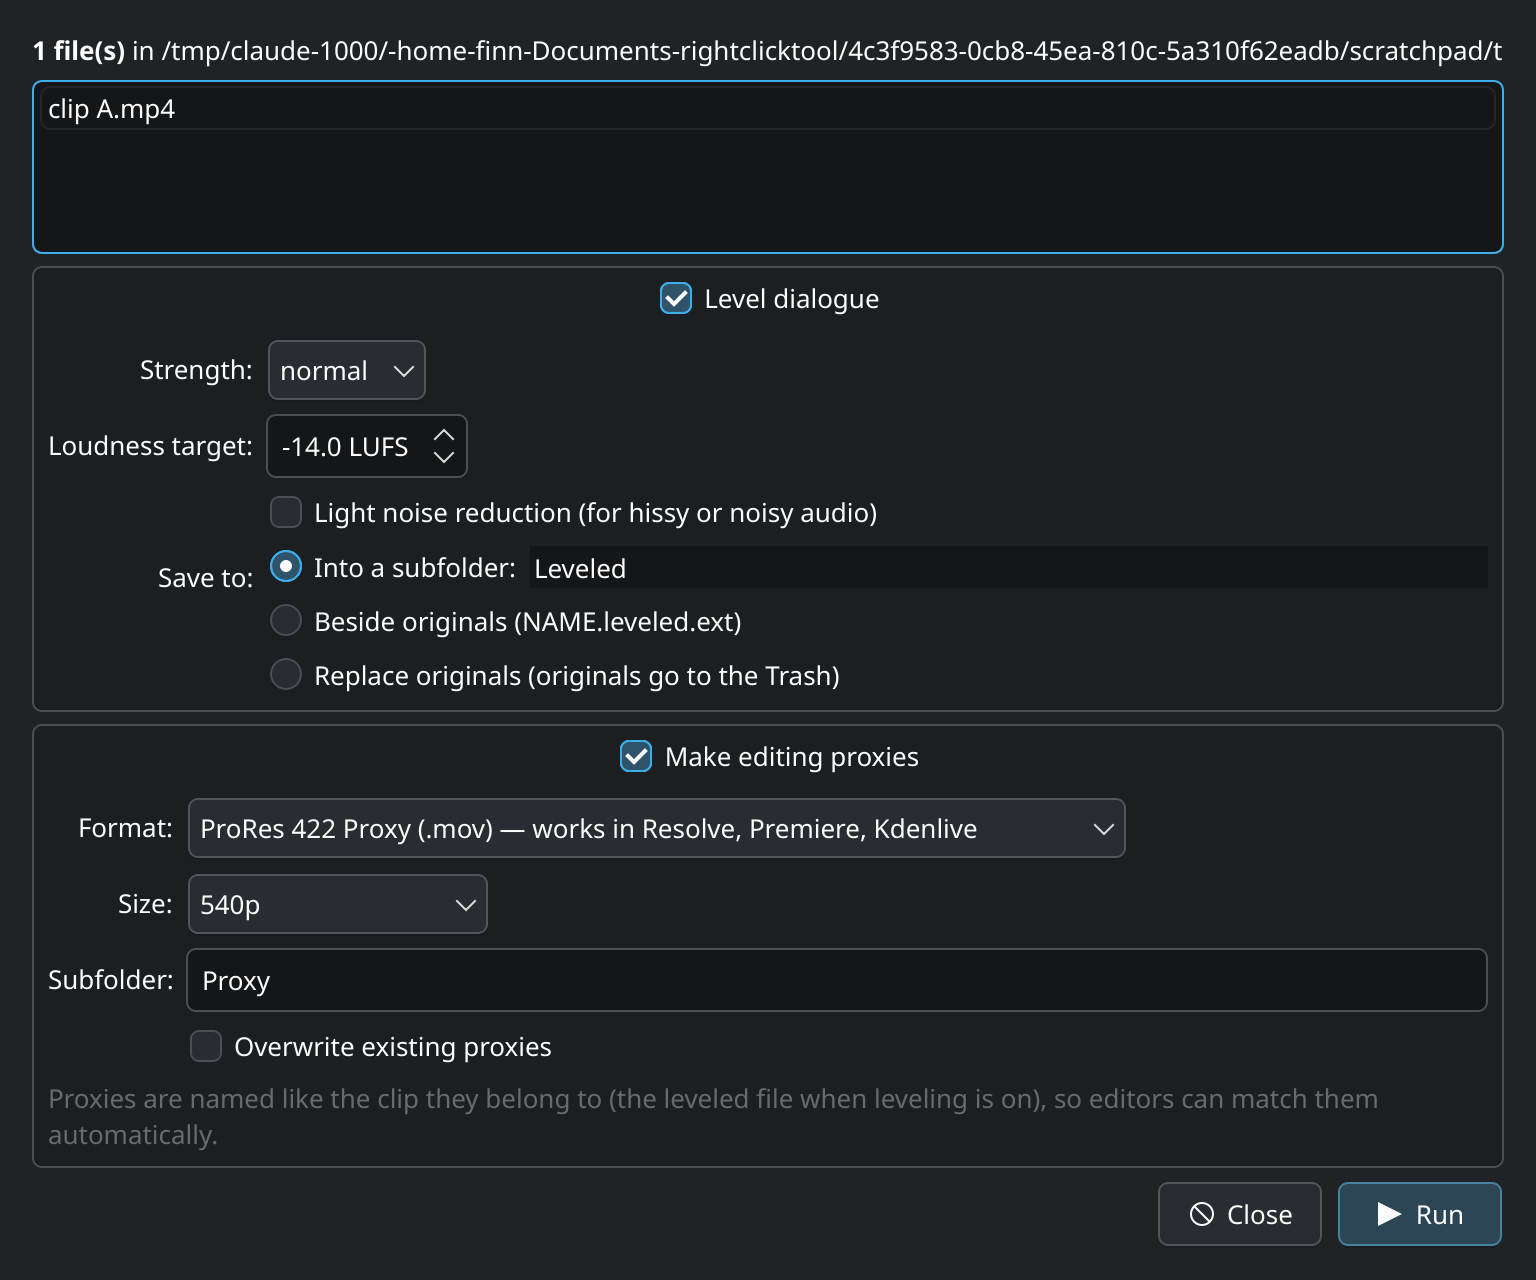
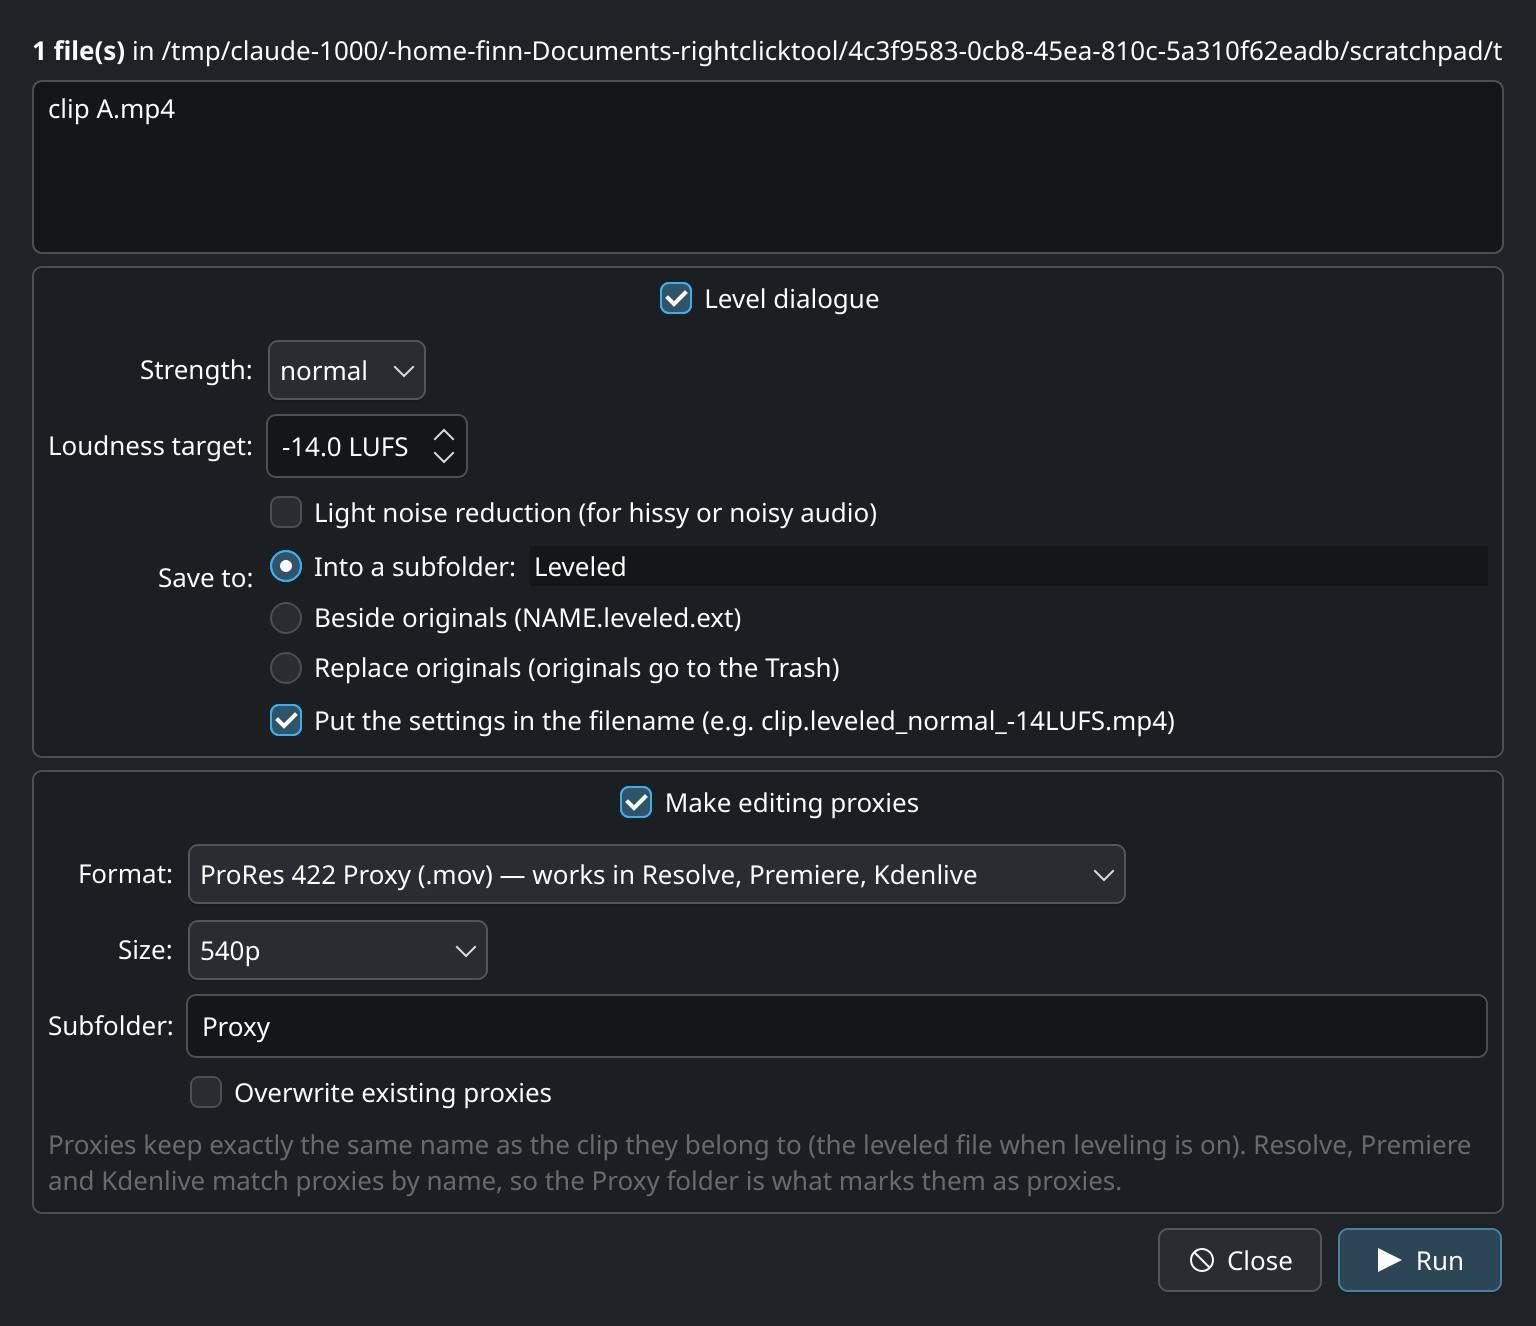
Add processing settings to leveled filenames

diff --git a/README.md b/README.md
@@ -10,10 +10,11 @@ right-click → **Footage tools…**, tick what you want, press **Run**.
 | Option | What happens |
 |---|---|
 | **Level dialogue** | Makes speech consistently audible: high-pass → optional denoise → dynamic leveling → compression → two-pass EBU R128 loudness normalisation → true-peak limiter. Video is copied bit-for-bit, never re-encoded. |
-| Save to: subfolder (default) | `clip.mp4` → `Leveled/clip.mp4` |
-| Save to: beside originals | `clip.mp4` → `clip.leveled.mp4` |
+| Save to: subfolder (default) | `clip.mp4` → `Leveled/clip.leveled_normal_-14LUFS.mp4` |
+| Save to: beside originals | `clip.mp4` → `clip.leveled_normal_-14LUFS.mp4` |
+| Settings in filename (default on) | Adds strength, `denoise` if used, and the loudness target to the name. Turn it off for plain `Leveled/clip.mp4` / `clip.leveled.mp4`. |
 | Save to: replace originals | Original moves to the Trash, leveled file takes its place (asks first, never remembered as the default). |
-| **Make editing proxies** | Low-res, edit-friendly copies in a `Proxy/` subfolder, same base name as the clip. If leveling is on, the proxy is made from the leveled file (so it sits in `Leveled/Proxy/` and carries the leveled audio). |
+| **Make editing proxies** | Low-res, edit-friendly copies in a `Proxy/` subfolder with exactly the same base name as the clip (editors match proxies by name, so proxy settings are never added to the name). If leveling is on, the proxy is made from the leveled file (so it sits in `Leveled/Proxy/` and carries the leveled audio). |
 
 Proxy formats: ProRes 422 Proxy `.mov` (default), DNxHR LB `.mov`, H.264 all-intra `.mp4` (smallest, but the free DaVinci Resolve on Linux cannot decode H.264 or AAC).
 Sizes: 540p (default), 720p, 1080p, half, quarter. Portrait clips scale by their short side; never upscales.
@@ -38,7 +39,7 @@ This symlinks `bin/footage-tools` into `~/.local/bin` and adds the Dolphin servi
 
 ```
 level-dialogue [--strength gentle|normal|strong] [--target -14] [--denoise]
-               [--outdir Leveled | --replace] FILE...
+               [--outdir Leveled | --replace] [--name-tags] FILE...
 ```
 
 `footage-tools FILE...` opens the window.

diff --git a/SPEC.md b/SPEC.md
@@ -29,11 +29,13 @@ exactly what to do to the selected footage, then runs it with visible progress.
   original modification time are kept.
 - Output: subfolder (default `Leveled/`, same filename) | beside (`NAME.leveled.EXT`) | replace
   (original to Trash).
-- Files with no audio, or already named `*.leveled.*`, are skipped (not failures).
+- Option (default on): put the settings in the output name —
+  `NAME.leveled_<strength>[_denoise]_<target>LUFS.EXT`. Not applied when replacing originals.
+- Files with no audio, or already named `*.leveled.*` / `*.leveled_*.*`, are skipped (not failures).
 
 ### Proxies
 - Written to a subfolder (default `Proxy/`) next to the clip they belong to, named
-  `<clip base name>.<proxy ext>`.
+  `<clip base name>.<proxy ext>`. Never add tags to proxy names: editors link proxies by name.
 - The clip they belong to is the leveled output when leveling ran, otherwise the original.
 - Must work in DaVinci Resolve (incl. free version on Linux), Premiere Pro and Kdenlive.
 - Formats: ProRes 422 Proxy (10-bit 4:2:2, PCM) `.mov` — default; DNxHR LB (4:2:2, PCM) `.mov`;

diff --git a/CHANGELOG.md b/CHANGELOG.md
@@ -1,5 +1,10 @@
 # Changelog
 
+## 2.2.0 — 2026-11-24
+- Leveled files can carry their settings in the name, e.g. `clip.leveled_normal_denoise_-14LUFS.mp4`
+  (on by default; `level-dialogue --name-tags`).
+- Proxies are named after the (tagged) leveled file so they still link automatically.
+
 ## 2.1.0 — 2026-11-24
 - Default proxy format is now ProRes 422 Proxy so proxies work in Resolve (incl. free on Linux),
   Premiere and Kdenlive. H.264 labelled as not readable by free Resolve on Linux.
